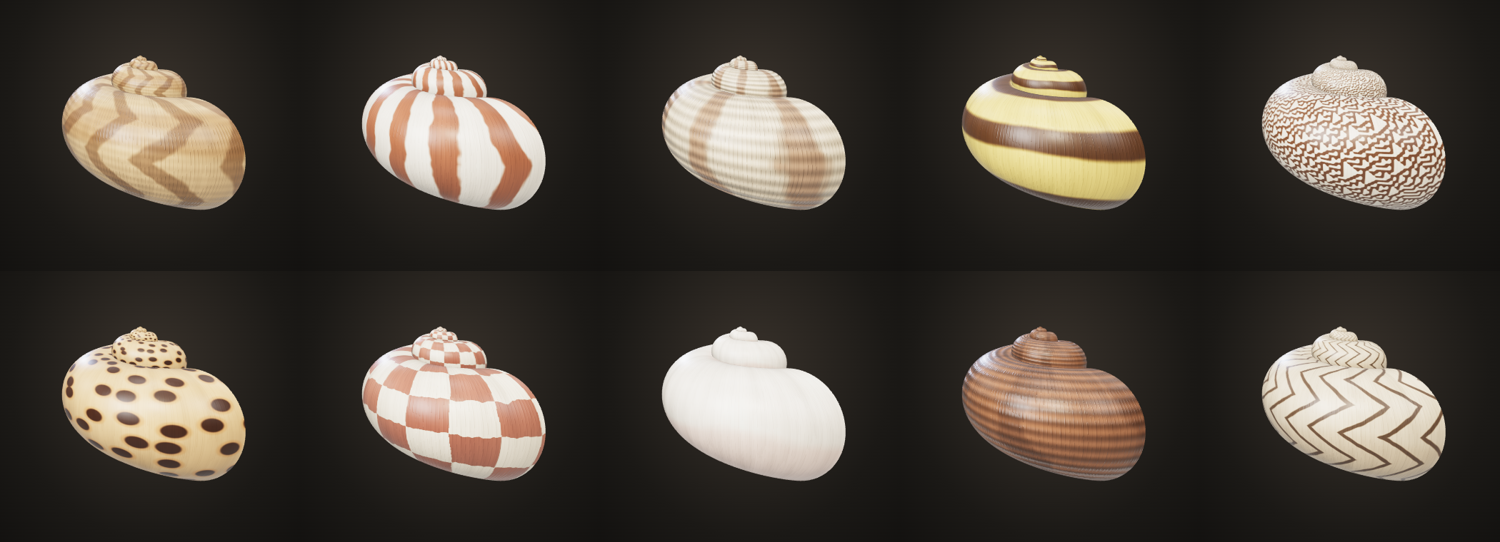
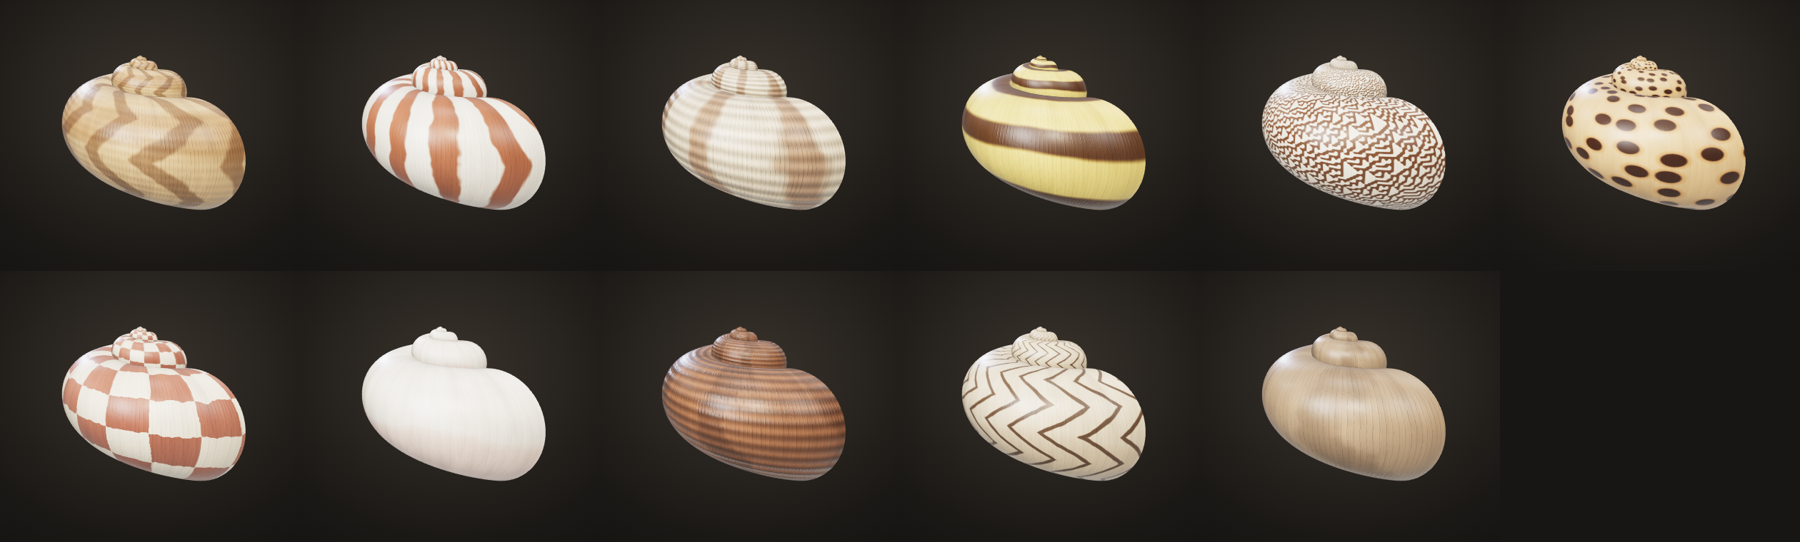
Ammonit als vierte Form, Fossil-Muster, neue Social-Media-Vorschau mit 3D-Schriftzug

diff --git a/index.html b/index.html
@@ -4,7 +4,7 @@
 <meta charset="UTF-8">
 <meta name="viewport" content="width=device-width, initial-scale=1.0, viewport-fit=cover">
 <title>Schneckenhaus 3D – Schnecke · Muschel · Nautilus</title>
-<meta name="description" content="Interaktive 3D-Spiralgehäuse von Schnecke, Muschel und Nautilus nach dem Raup-Modell – mit Three.js und 10 prozeduralen Schalenmustern.">
+<meta name="description" content="Interaktive 3D-Spiralgehäuse von Schnecke, Muschel, Nautilus und Ammonit nach dem Raup-Modell – mit Three.js, 11 Schalenmustern und STL-Export.">
 <meta name="theme-color" content="#1b1916">
 <link rel="manifest" href="manifest.webmanifest">
 <link rel="icon" type="image/png" sizes="192x192" href="assets/icons/icon-192.png">
@@ -16,14 +16,14 @@
 <!-- Social media preview -->
 <meta property="og:type" content="website">
 <meta property="og:title" content="Schneckenhaus 3D">
-<meta property="og:description" content="Spiralgehäuse von Schnecke, Muschel und Nautilus in 3D – Öffnungswinkel, Länge und Steigung live einstellen.">
+<meta property="og:description" content="Spiralgehäuse von Ammonit, Schnecke, Muschel und Nautilus in 3D – Öffnungswinkel, Länge und Steigung live einstellen, als STL exportieren.">
 <meta property="og:url" content="https://helmutqualtinger.github.io/schneckenhaus/">
 <meta property="og:image" content="https://helmutqualtinger.github.io/schneckenhaus/assets/social-preview.png">
 <meta property="og:image:width" content="1280">
 <meta property="og:image:height" content="640">
 <meta name="twitter:card" content="summary_large_image">
 <meta name="twitter:title" content="Schneckenhaus 3D">
-<meta name="twitter:description" content="Spiralgehäuse von Schnecke, Muschel und Nautilus in 3D – mit Three.js.">
+<meta name="twitter:description" content="Spiralgehäuse von Ammonit, Schnecke, Muschel und Nautilus in 3D – mit Three.js.">
 <meta name="twitter:image" content="https://helmutqualtinger.github.io/schneckenhaus/assets/social-preview.png">
 <style>
   :root { --fg:#e9e3d8; --muted:#a39b8e; --accent:#d9a86c; --panel:rgba(22,20,18,0.78); }

diff --git a/sw.js b/sw.js
@@ -1,6 +1,6 @@
 // Service worker: caches the app shell and the Three.js modules from the CDN,
 // so the installed app also works offline.
-const CACHE = 'schneckenhaus-v4';
+const CACHE = 'schneckenhaus-v5';
 const CORE = [
   './',
   './index.html',

diff --git a/README.md b/README.md
@@ -1,6 +1,8 @@
 # Schneckenhaus 3D
 
-Interaktive 3D-Spiralgehäuse von **Schnecke**, **Muschel** und **Nautilus (Tintenfisch)** im Browser, erzeugt mit [Three.js](https://threejs.org) nach dem Raup-Modell der Schalenwindung.
+![Schneckenhaus 3D](assets/social-preview.png)
+
+Interaktive 3D-Spiralgehäuse von **Schnecke**, **Muschel**, **Nautilus (Tintenfisch)** und **Ammonit** im Browser, erzeugt mit [Three.js](https://threejs.org) nach dem Raup-Modell der Schalenwindung.
 
 **▶ Live-Demo: [helmutqualtinger.github.io/schneckenhaus](https://helmutqualtinger.github.io/schneckenhaus/)**
 
@@ -12,8 +14,8 @@ Interaktive 3D-Spiralgehäuse von **Schnecke**, **Muschel** und **Nautilus (Tint
   - **Öffnungswinkel**: Winkel der logarithmischen Spirale; bestimmt die Erweiterungsrate W = e^(2π·tan ψ) pro Windung
   - **Länge**: Anzahl der Windungen; das Gehäuse wächst an der Mündung, die Spitze bleibt fest
   - **Steigung**: Verschiebung entlang der Windungsachse (0 = flach wie Nautilus, hoch = Turmschnecke)
-- **Drei Grundformen** per Knopfdruck: Schnecke, Tintenfisch (Nautilus), Muschel (zwei gespiegelte Klappen)
-- **10 prozedurale Schalenmuster** mit Farb- und Reliefkarte, wählbar über eine Vorschau-Palette
+- **Vier Grundformen** per Knopfdruck: Schnecke, Tintenfisch (Nautilus), Muschel (zwei gespiegelte Klappen), Ammonit (flache Spirale mit Querrippen)
+- **11 prozedurale Schalenmuster** mit Farb- und Reliefkarte, wählbar über eine Vorschau-Palette
 - Scharfe Spitze, perlmuttartig schimmernde Innenseite, Anwachslinien und Rippen als Relief
 - Drehen, Zoomen und Verschieben mit Maus oder Touch
 - **Export als STL** für den 3D-Druck: massiver, wasserdichter Körper mit Muster-Relief und Farben pro Dreieck
@@ -21,16 +23,17 @@ Interaktive 3D-Spiralgehäuse von **Schnecke**, **Muschel** und **Nautilus (Tint
 
 ## Formen
 
-![Schnecke, Nautilus und Muschel](assets/formen.png)
+![Schnecke, Nautilus, Muschel und Ammonit](assets/formen.png)
 
 ## Muster
 
-![Die 10 Schalenmuster](assets/muster.png)
+![Die 11 Schalenmuster](assets/muster.png)
 
 | | | | | |
 |---|---|---|---|---|
 | Zickzack-Flammen | Tigerstreifen (Nautilus) | Herzmuschel-Rippen | Bänderschnecke | Zeltmuster (Kegelschnecke) |
 | Leopardenpunkte | Würfelmuster | Porzellanweiß | Dunkel gerippt | Feine Wellenlinien |
+| Fossil (Ammonit) | | | | |
 
 ![Muster-Auswahl](assets/screenshot-muster.png)
 
@@ -71,8 +74,8 @@ Ansichten lassen sich als Link teilen:
 
 | Parameter | Bedeutung | Beispiel |
 |---|---|---|
-| `preset` | `schnecke`, `nautilus`, `muschel` | `?preset=nautilus` |
-| `pattern` | Muster-Schlüssel (`zickzack`, `tiger`, `rippen`, `baender`, `zelt`, `punkte`, `schach`, `porzellan`, `gerippt`, `wellen`) | `?pattern=zelt` |
+| `preset` | `schnecke`, `nautilus`, `muschel`, `ammonit` | `?preset=nautilus` |
+| `pattern` | Muster-Schlüssel (`zickzack`, `tiger`, `rippen`, `baender`, `zelt`, `punkte`, `schach`, `porzellan`, `gerippt`, `wellen`, `fossil`) | `?pattern=zelt` |
 | `psi`, `turns`, `T` | Öffnungswinkel, Windungen, Steigung | `?psi=7&turns=8&T=3` |
 | `clean` | Bedienfeld ausblenden (für Screenshots) | `?preset=muschel&clean` |
 

diff --git a/CLAUDE.md b/CLAUDE.md
@@ -10,8 +10,8 @@ Interaktive 3D-Spiralgehäuse (Schnecke, Muschel, Nautilus) mit Three.js. Eine e
 
 ## Aufbau von index.html
 
-- `PRESETS`: Grundformen (Geometrieparameter, Standardmuster, Innenmaterial).
-- `PATTERNS` + `PATTERN_DEFAULTS`: die 10 Muster. Fehlende Felder werden aus den Defaults ergänzt.
+- `PRESETS`: Grundformen Schnecke, Nautilus, Muschel, Ammonit (Geometrieparameter, Standardmuster, Innenmaterial). `crossRibs`/`crossRibAmp` erzeugen Querrippen über die Windung (Ammonit).
+- `PATTERNS` + `PATTERN_DEFAULTS`: die 11 Muster. Fehlende Felder werden aus den Defaults ergänzt.
 - `makeShellTextures(pattern, size)`: berechnet Farb- und Reliefkarte pixelweise auf einem Canvas. Alle Terme müssen in u und v periodisch sein (ganzzahlige Frequenzen, periodisches Noise), sonst entstehen Nähte. Ausnahme ist der zelluläre Automat, der nur in v periodisch ist.
 - `buildShellGeometry(params)`: Raup-Modell. Spitze fest bei θ = 0, das Gehäuse wächst zur Mündung. Hinter der Spitze werden versteckte Windungen erzeugt (`theta0`), dann schließt Zeile 0 im Grenzpunkt (scharfe Spitze).
 - `rebuild(refit)` / `fitView(animated)`: Beim Ziehen des Längenreglers bleibt der Maßstab fest. Erst beim Loslassen (`change`-Event) wird weich neu eingepasst.
@@ -35,4 +35,4 @@ URL-Parameter für reproduzierbare Ansichten: `?preset=nautilus&pattern=zelt&psi
 
 ## Screenshots neu erzeugen
 
-Mit Playwright (Python) und dem installierten Chrome (`channel="chrome"`), Service Worker blockiert. Mit `?clean`-URLs rendern und in `assets/` ablegen. Für `social-preview.png` einen 1280×640-Viewport verwenden.
+Mit Playwright (Python) und dem installierten Chrome (`channel="chrome"`), Service Worker blockiert. Mit `?clean`-URLs rendern und in `assets/` ablegen. Für `social-preview.png` einen 1280×640-Viewport verwenden: Ammonit (`?preset=ammonit&clean`), Titel als HTML, „3D“ als extrudierter Schriftzug (`TextGeometry`, helvetiker_bold) in die Szene über `window.shellApp` eingefügt. Für Bilder im Desktop-Layout mindestens 641 px Breite verwenden (darunter greift das Handy-Layout).
